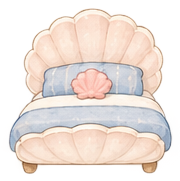
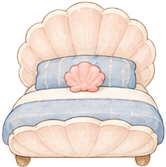
조개 침대 anchor 버그 수정 — 공중에 떠 보이는 문제 해결
원인: vintage_shell_bed_left/right(및 base) 크롭 시 pad=8을 줬는데
캔버스가 135~180px로 작아 이 여백이 이미지 높이의 4~5%나 됐다.
furnitureWrapperStyle은 "이미지 캔버스 하단 = 바닥 접점"으로
가정하는데, 실제 침대 다리는 그보다 7~8px 위에서 끝나 있어 뜬
것처럼 보였다.

- 원본 시트에서 pad=1로 재크롭 — 3장 전부 bottom padding 0으로 확인
  (다리 최하단 픽셀 = 캔버스 하단), 별도 anchorY 필드 없이 기존
  "캔버스 하단 = 바닥" 규칙이 그대로 맞아떨어지게 함
- 좌/우 방향 전환 시 "바닥 접점의 가로 중심"과 "전체 바운딩박스
  가로 중심" 차이를 계산해 1.5~2.5px(무시 가능)임을 확인 —
  방향별 anchorX 없이 groundAnchorX=0.5 하나로 충분
- vintage_shell_bed SKU_OVERRIDE에 baseHeightFrac: 0.41(기존 침대
  0.34의 1.2배) 추가 — 이 sku에만 적용, 다른 침대는 그대로.
  회귀 테스트로 고정
- 접지 그림자는 추가하지 않음: anchor가 정확해져서 가릴 필요가
  없고, 다른 21종 가구엔 그림자가 없어 통일감이 깨지는 걸 방지

BEFORE(pad=8, git 히스토리)/AFTER를 같은 좌표·기준선 위에서
Playwright로 비교 스크린샷 검증 — BEFORE는 다리와 기준선 사이 틈이
보이고 AFTER는 정확히 닿음. 방향 3회 순환해도 같은 위치 유지 확인.
tsc/eslint/vitest(129개)/next build 전부 통과.

Claude-Session: https://claude.ai/code/session_01NgqnTmRzzUqp5mQyQHDk7w

diff --git a/lib/domain/cabinPlacement.ts b/lib/domain/cabinPlacement.ts
@@ -265,7 +265,13 @@ const SKU_OVERRIDES: Record<string, Partial<PlacementDef>> = {
   interior_nightstand_clock: { placementType: "floor", preferredZone: "floor", allowedZones: ["floor"], baseHeightFrac: 0.12 },
   // 빈티지 가구 시리즈 원본 시트에 실제로 좌/우로 튼 3/4 각도 그림이 따로 있는 유일한 아이템 —
   // furnitureFacingAssets.ts의 FURNITURE_FACING_ASSETS와 짝을 맞춰 방향 전환을 지원한다.
-  vintage_shell_bed: { defaultFacing: "front", supportedFacings: ["front", "front-left", "front-right"] },
+  // baseHeightFrac은 bed 기본값(0.34)의 약 1.2배 — 선실 대비 작아 보인다는 피드백으로 20% 확대
+  // (furniture_bed 등 다른 침대 sku는 건드리지 않음, 이 sku에만 적용).
+  vintage_shell_bed: {
+    defaultFacing: "front",
+    supportedFacings: ["front", "front-left", "front-right"],
+    baseHeightFrac: 0.41,
+  },
 };
 
 export function getPlacementDef(sku: string | null | undefined): PlacementDef {

diff --git a/lib/domain/cabinPlacement.test.ts b/lib/domain/cabinPlacement.test.ts
@@ -18,6 +18,13 @@ describe("getPlacementDef", () => {
     expect(def.baseHeightFrac).toBeGreaterThan(0.25);
   });
 
+  it("조개 침대(vintage_shell_bed)는 선실 대비 작아 보인다는 피드백으로 기본 침대보다 20% 크다", () => {
+    const bed = getPlacementDef("furniture_bed");
+    const shellBed = getPlacementDef("vintage_shell_bed");
+    expect(shellBed.baseHeightFrac).toBeGreaterThan(bed.baseHeightFrac);
+    expect(shellBed.baseHeightFrac).toBeCloseTo(bed.baseHeightFrac * 1.2, 1);
+  });
+
   it("현창/액자류는 wall로 분류된다", () => {
     expect(getPlacementDef("furniture_porthole").placementType).toBe("wall");
     expect(getPlacementDef("interior_lighthouse_frame").placementType).toBe("wall");
